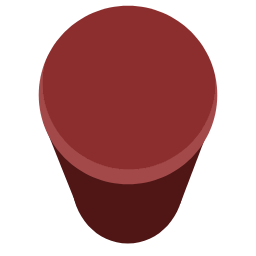
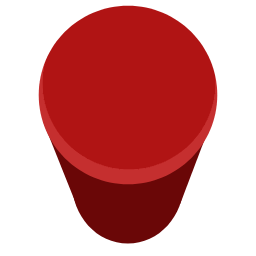
feat(animation): add animation on board reveal and pegs

diff --git a/src/controllers/GameController.js b/src/controllers/GameController.js
@@ -27,8 +27,6 @@ class GameController {
         DOMRenderer.renderTitle();
         DOMRenderer.renderMessage(`Place your ships.`, `[ Use 'R' key to rotate ]`);
         DOMRenderer.renderBoard(this.player1);
-        //DOMRenderer.renderBoard(this.player2);
-        //this.placeRandomShips(this.player2, this.enemyPlacement);
         this.setPhase(gamePhase.PLACING_SHIPS, UIMode.PLACING_SHIPS);
     }
 
@@ -97,8 +95,18 @@ class GameController {
                 playerBoard.placeShip(ship);
                 DOMRenderer.renderShip(ship, this.player1);
                 this.playerPlacement.currentShipIndex += 1;
+
+                // if placement is complete
                 if (this.playerPlacement.isComplete()) {
                     DOMRenderer.clearPreviewShip(this.player1);
+
+                    // Render enemy board and place random ships
+                    DOMRenderer.revealBoardWithSwipe(this.player2);
+                    this.placeRandomShips(this.player2, this.enemyPlacement);
+
+                    // Lock player board visually
+                    DOMRenderer.lockBoard(this.player1);
+
                     this.advancePhase();
                 }
             }
@@ -120,17 +128,20 @@ class GameController {
         }
 
         if (this.phase === gamePhase.ENEMY_TURN) {
-            const enemyAttackCoord = this.ai.getNextAttack();
-            this.player1.board.receiveAttack(enemyAttackCoord);
-            const target = this.player1.board.getValue(enemyAttackCoord);
+            setTimeout(() => {
+                const enemyAttackCoord = this.ai.getNextAttack();
+                this.player1.board.receiveAttack(enemyAttackCoord);
+                const target = this.player1.board.getValue(enemyAttackCoord);
 
-            // Render the peg
-            if (target.peg === 'miss')
-                DOMRenderer.renderPeg(enemyAttackCoord, this.player1, 'White');
-            if (target.peg === 'hit') DOMRenderer.renderPeg(enemyAttackCoord, this.player1, 'Red');
+                // Render the peg
+                if (target.peg === 'miss')
+                    DOMRenderer.renderPeg(enemyAttackCoord, this.player1, 'White');
+                if (target.peg === 'hit')
+                    DOMRenderer.renderPeg(enemyAttackCoord, this.player1, 'Red');
 
-            this.ai.removeExhausted();
-            this.advancePhase();
+                this.ai.removeExhausted();
+                this.advancePhase();
+            }, 500);
         }
     }
 

diff --git a/src/ui/DOMRenderer.js b/src/ui/DOMRenderer.js
@@ -28,7 +28,13 @@ class DOMRenderer {
             children: [...cells],
         });
 
-        // Append grid stage to app
+        // Create clipping container
+        const clippingContainer = createEl('div', {
+            classes: ['clipping-container', `${type}`],
+            children: [gridStage],
+        });
+
+        // Append grid to app
         const app = document.querySelector('.app');
         let battlefield = document.querySelector('.battlefield');
         if (!battlefield) {
@@ -37,7 +43,7 @@ class DOMRenderer {
             });
             app.appendChild(battlefield);
         }
-        battlefield.appendChild(gridStage);
+        battlefield.appendChild(clippingContainer);
     }
 
     static previewShip(ship, valid, player) {
@@ -114,6 +120,10 @@ class DOMRenderer {
                 src: img[`peg${color}`],
             },
         });
+        requestAnimationFrame(() => {
+            placedPeg.classList.add('placed');
+        });
+
         document.querySelector(`.grid-stage.${player.type}`).append(placedPeg);
     }
 
@@ -195,6 +205,21 @@ class DOMRenderer {
         requestAnimationFrame(() => {
             el.classList.add('show');
         });
+    }
+
+    static revealBoardWithSwipe(player) {
+        this.renderBoard(player);
+        const clippingContainer = document.querySelector(`.clipping-container.${player.type}`);
+        const battlefield = document.querySelector('.battlefield');
+        requestAnimationFrame(() => {
+            clippingContainer.classList.add('revealed');
+            battlefield.classList.add('two-grids');
+        });
+    }
+
+    static lockBoard(player) {
+        const board = document.querySelector(`.grid-stage.${player.type}`);
+        board.classList.add('locked');
     }
 }
 

diff --git a/src/style.css b/src/style.css
@@ -30,6 +30,11 @@ h6 {
     flex-direction: row;
     justify-content: center;
     align-items: center;
+    gap: 0px;
+    transition: gap 1s cubic-bezier(0.15, 0, 0.2, 1);
+}
+
+.battlefield.two-grids {
     gap: 20px;
 }
 
@@ -42,9 +47,27 @@ h6 {
     border: 3px solid rgb(208, 208, 208);
 }
 
+.grid-stage.computer {
+    background-color: rgb(0, 0, 0);
+}
+
+.clipping-container.computer {
+    width: 0;
+    overflow: hidden;
+    transition: width 1s cubic-bezier(0.15, 0, 0.2, 1);
+}
+
+.clipping-container.computer.revealed {
+    width: 350px;
+}
+
 .grid-cell {
     z-index: 1;
     border: 1px solid rgb(208, 208, 208);
+}
+
+.grid-stage.computer > .grid-cell {
+    opacity: 0.55;
 }
 
 .ship {
@@ -63,6 +86,12 @@ h6 {
     position: absolute;
     z-index: 4;
     pointer-events: none;
+    transform: translateY(-10px);
+    transition: transform 0.5s cubic-bezier(0, 0, 0.1, 1);
+}
+
+.peg.placed {
+    transform: translateY(0);
 }
 
 .preview-ship {
@@ -104,7 +133,7 @@ h6 {
     margin-top: 10px;
     font-weight: 400;
     font-size: 18px;
-    color: rgb(196, 196, 196);
+    color: rgb(158, 158, 158);
 }
 
 .fade {
